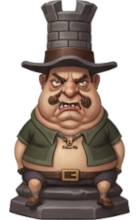
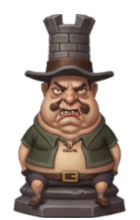
Update version to 0.0.3 in package.json, modify styles for StartMenu component, and update chess piece images

diff --git a/src/components/StartMenu.css b/src/components/StartMenu.css
@@ -67,19 +67,20 @@ label {
   gap: 0.8em;
   padding: 0.8em 1.5em;
   border-radius: 5px;
+  border: 2px solid #d1b593;
   color: white;
   margin: 0 10px;
 }
 
 input[type='radio']:checked + label {
-  background-color: #4caf50;
+  background-color: #c19561;;
 }
 
 .button {
   padding: 10px 20px;
   border-radius: 5px;
   outline: 0;
-  background: #4caf50;
+  background: #c19561;
   color: white;
   border: 0;
   cursor: pointer;
